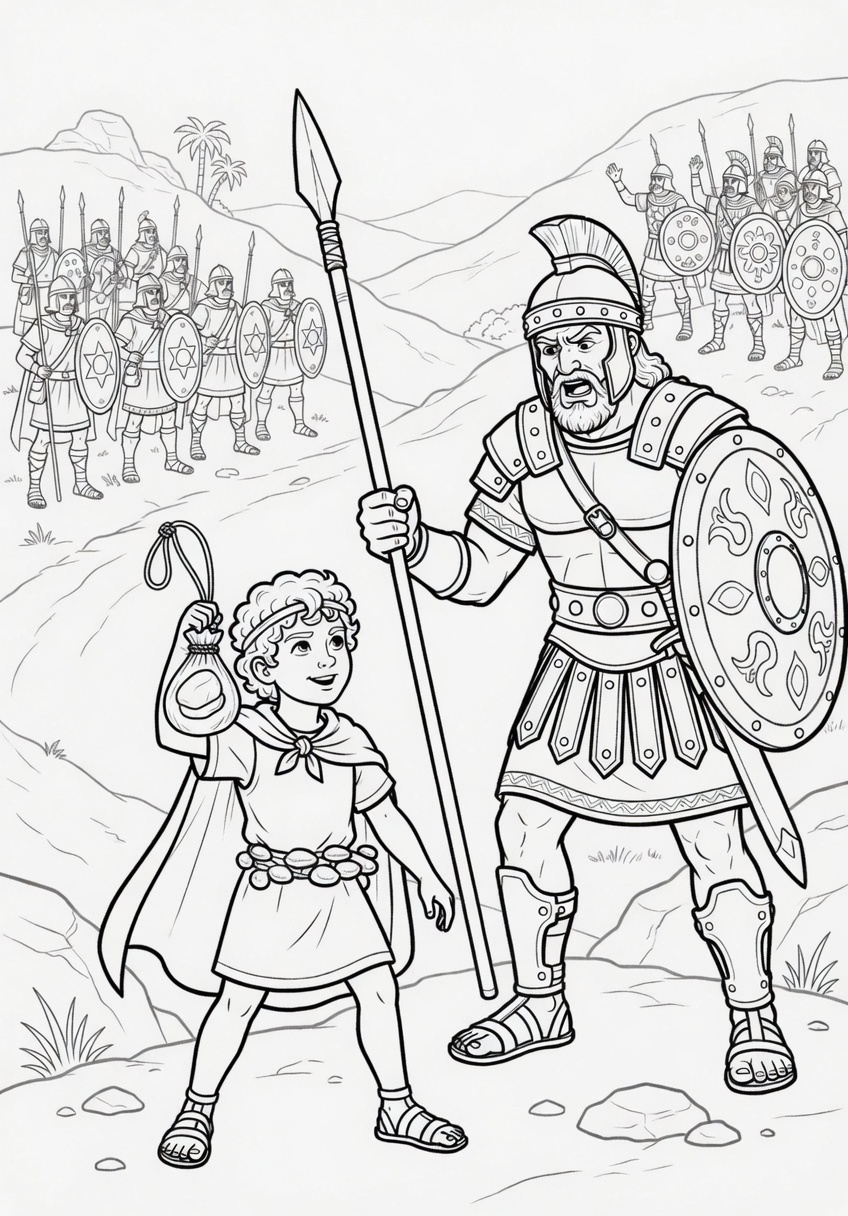
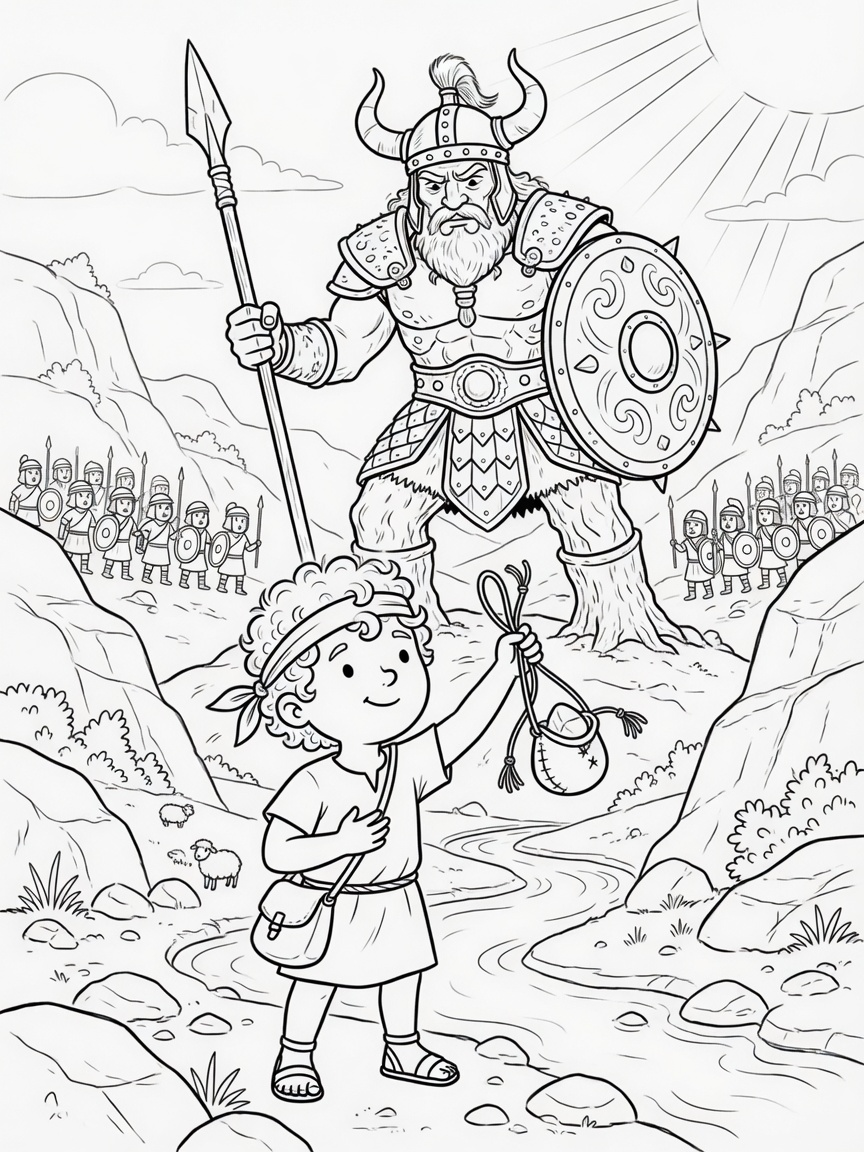
fix(kids): David and Goliath art shows giant Goliath again
Last crop looked like David showing a regular soldier a sling.
Restore full-body towering Goliath in the valley with boy David
holding one small shepherd's sling and one stone.

diff --git a/kids/kids-battle.js b/kids/kids-battle.js
@@ -580,7 +580,7 @@
 
   /** When a carousel story key is missing from bibleStories, show a safe single-panel strip (matches getCartoonForVerse fallbacks). */
   const KIDS_SINGLE_CARTOON_FALLBACKS = [
-    { type: 'single', src: '/coloring-pages/colored/david-and-goliath-coloring-page.jpg', alt: 'David with slingshot', caption: 'Be brave like David!', anim: 'cartoon-slide-david' },
+    { type: 'single', src: '/coloring-pages/colored/david-and-goliath-coloring-page.jpg', alt: 'Boy David with one sling facing giant Goliath', caption: 'Be brave like David!', anim: 'cartoon-slide-david' },
     { type: 'single', src: '/coloring-pages/colored/noah-s1.jpg', alt: "Noah's ark", caption: 'God keeps His promises!', anim: 'cartoon-slide-noah' },
     { type: 'single', src: '/coloring-pages/colored/jesus-and-the-children-coloring-page.jpg', alt: 'Jesus loves children', caption: 'Jesus loves you!', anim: 'cartoon-slide-jesus' },
     { type: 'single', src: '/coloring-pages/colored/jonah-s1.jpg', alt: 'Jonah and the big fish', caption: 'Obey God like Jonah!', anim: 'cartoon-slide-jonah' },
@@ -613,7 +613,7 @@
     david: {
       title: 'David & Goliath',
             panels: [
-        { src: '/coloring-pages/bible-stories/david-and-goliath-coloring-page.jpg', alt: 'Goliath defies Israel — the armies stand afraid in the valley' }
+        { src: '/coloring-pages/bible-stories/david-and-goliath-coloring-page.jpg', alt: 'Boy David with a sling faces giant Goliath in the valley' }
       ],
       caption: 'Swipe to see courage that trusts the Lord — not size or armor.',
       videoId: '',
@@ -3554,7 +3554,7 @@
     goliathChallenge: {
       title: 'Goliath\'s Challenge',
             panels: [
-        { src: '/coloring-pages/bible-stories/david-and-goliath-coloring-page.jpg', alt: 'Goliath shouts—who will fight me?' }
+        { src: '/coloring-pages/bible-stories/david-and-goliath-coloring-page.jpg', alt: 'Boy David with a sling faces giant Goliath' }
       ],
       caption: 'Swipe to see David face the giant—God wins! ⚔',
       videoId: '',
@@ -3701,7 +3701,7 @@
     davidGoliath: {
       title: 'David & Goliath',
             panels: [
-        { src: '/coloring-pages/bible-stories/david-and-goliath-coloring-page.jpg', alt: 'Goliath defies Israel — the armies stand afraid in the valley' }
+        { src: '/coloring-pages/bible-stories/david-and-goliath-coloring-page.jpg', alt: 'Boy David with a sling faces giant Goliath in the valley' }
       ],
       caption: 'Swipe to see courage that trusts the Lord — not size or armor.',
       videoId: '',
@@ -10408,7 +10408,7 @@
       return { type: 'carousel', story: storyKeys[weeklyStoryIndex] };
     }
     var panels = [
-      { type: 'single', src: '/coloring-pages/colored/david-and-goliath-coloring-page.jpg', alt: 'David with slingshot', caption: 'Be brave like David!', anim: 'cartoon-slide-david' },
+      { type: 'single', src: '/coloring-pages/colored/david-and-goliath-coloring-page.jpg', alt: 'Boy David with one sling facing giant Goliath', caption: 'Be brave like David!', anim: 'cartoon-slide-david' },
       { type: 'single', src: '/coloring-pages/colored/noah-s1.jpg', alt: "Noah's ark", caption: 'God keeps His promises!', anim: 'cartoon-slide-noah' },
       { type: 'single', src: '/coloring-pages/colored/jesus-and-the-children-coloring-page.jpg', alt: 'Jesus loves children', caption: 'Jesus loves you!', anim: 'cartoon-slide-jesus' },
       { type: 'single', src: '/coloring-pages/colored/jonah-s1.jpg', alt: 'Jonah and the big fish', caption: 'Obey God like Jonah!', anim: 'cartoon-slide-jonah' },
